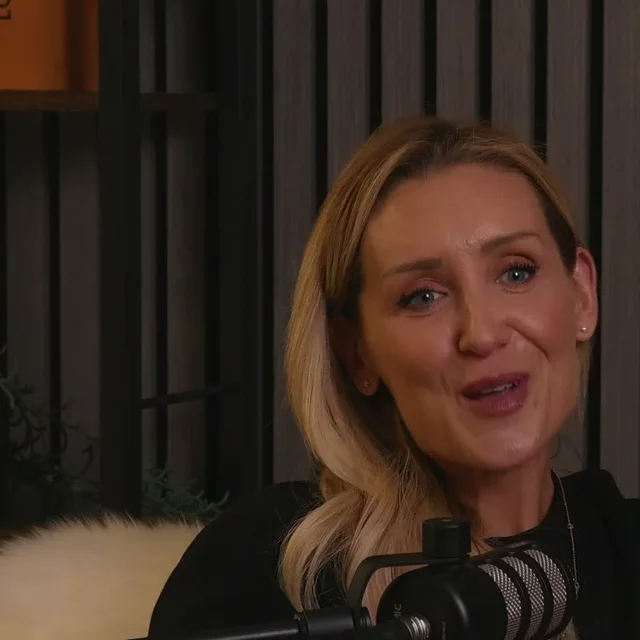
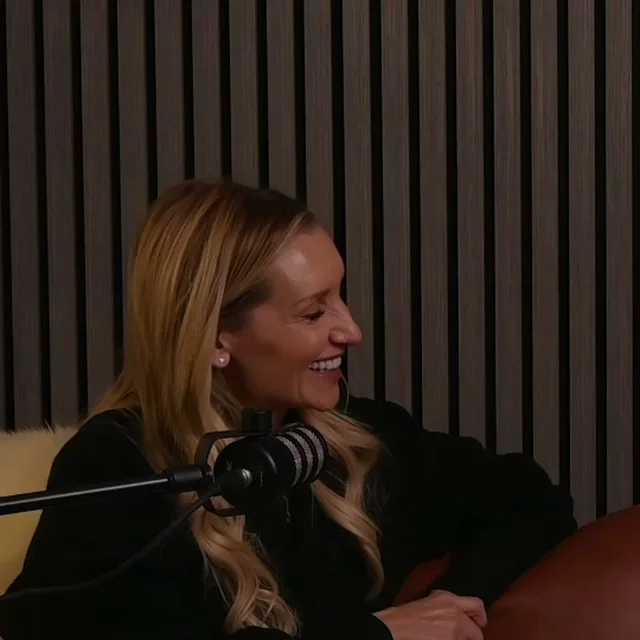
Faces polish per Luca: smaller tiles, flattering laughing shots for Cath/Lindsey, better Lucy-Jo, Chris facing camera, section moved above pricing, On air band tile removed

diff --git a/index.html b/index.html
@@ -205,8 +205,8 @@
 
   /* ---- gallery band ---- */
   .band{padding:0;border-block:1px solid var(--line-2)}
-  .band-in{display:grid;grid-template-columns:1.4fr 1fr;gap:4px;height:min(46vw,420px)}
-  @media(max-width:720px){.band-in{grid-template-columns:1fr;height:auto}.band-in .g{height:50vw}}
+  .band-in{display:grid;grid-template-columns:1fr;gap:4px;height:min(40vw,380px)}
+  @media(max-width:720px){.band-in{height:auto}.band-in .g{height:50vw}}
   .band .g{background-size:cover;background-position:center;position:relative;overflow:hidden;filter:saturate(.9)}
   .band .g:hover{filter:saturate(1.08)}
   .band .g::after{content:"";position:absolute;inset:0;background:linear-gradient(180deg,transparent 55%,rgba(7,17,8,.75))}
@@ -307,7 +307,7 @@
 
   /* anchor offset for sticky header */
   section[id],div[id]{scroll-margin-top:84px}
-@media (max-width:560px){.phones{gap:.6rem}.phone{width:clamp(86px,26vw,150px)}.phone:nth-child(2){width:clamp(95px,29vw,165px)}.phone .cap{font-size:.68rem}}.skip{position:absolute;left:-9999px;top:0;background:#e8b04b;color:#141810;padding:.6rem 1.1rem;z-index:100;font-weight:600}.skip:focus{left:0}main p a,main li a,.foot-col a{text-decoration:underline;text-underline-offset:3px;text-decoration-thickness:1px}h3.name{margin:0;font-size:inherit;font-weight:inherit;font-family:inherit}.paths .wide{grid-column:1/-1}.paths .wide .ph{height:300px}.faces{display:grid;grid-template-columns:repeat(auto-fit,minmax(150px,1fr));gap:1rem;margin-top:2.4rem}.face{margin:0}.face img{width:100%;height:auto;border-radius:14px;border:1px solid var(--line);display:block;filter:saturate(.95)}.face figcaption{font-family:ui-monospace,Menlo,monospace;font-size:.66rem;letter-spacing:.14em;text-transform:uppercase;color:var(--ink-dim);margin-top:.55rem;text-align:center}
+@media (max-width:560px){.phones{gap:.6rem}.phone{width:clamp(86px,26vw,150px)}.phone:nth-child(2){width:clamp(95px,29vw,165px)}.phone .cap{font-size:.68rem}}.skip{position:absolute;left:-9999px;top:0;background:#e8b04b;color:#141810;padding:.6rem 1.1rem;z-index:100;font-weight:600}.skip:focus{left:0}main p a,main li a,.foot-col a{text-decoration:underline;text-underline-offset:3px;text-decoration-thickness:1px}h3.name{margin:0;font-size:inherit;font-weight:inherit;font-family:inherit}.paths .wide{grid-column:1/-1}.paths .wide .ph{height:300px}.faces{display:grid;grid-template-columns:repeat(auto-fit,minmax(105px,1fr));gap:.8rem;margin-top:2.2rem}.face{margin:0}.face img{width:100%;height:auto;border-radius:14px;border:1px solid var(--line);display:block;filter:saturate(.95)}.face figcaption{font-family:ui-monospace,Menlo,monospace;font-size:.66rem;letter-spacing:.14em;text-transform:uppercase;color:var(--ink-dim);margin-top:.55rem;text-align:center}
 .face figcaption small{display:block;font-size:.6rem;letter-spacing:.08em;text-transform:none;color:var(--ink-faint);margin-top:.25rem}
 .rate a.r{display:block;text-decoration:none;color:inherit;border-color:rgba(232,169,75,.45);background:linear-gradient(160deg,rgba(232,169,75,.14),rgba(232,169,75,.04))}
 .rate a.r:hover{border-color:rgba(232,169,75,.8)}
@@ -516,9 +516,29 @@
 <div class="band">
   <div class="band-in">
     <div class="g" style="background-image:var(--img-lounge)"><span>Built for Heart &amp; Home</span></div>
-    <div class="g" style="background-image:var(--img-bts)"><span>On air</span></div>
   </div>
 </div>
+
+<!-- ================= FEATURED ================= -->
+<section id="featured">
+  <div class="wrap">
+    <div class="sec-head reveal">
+      <span class="eyebrow"><span class="tk">//</span> Featured in the studio</span>
+      <h2 class="big serif">Faces you&#39;ll recognise.</h2>
+      <p class="lede">A few of the guests who&#39;ve pulled up a chair in the room.</p>
+    </div>
+    <div class="faces">
+      <figure class="face reveal"><img src="images/faces/catherine-tyldesley.webp" alt="Catherine Tyldesley recording Repeat or Delete at Nova Studios" loading="lazy" width="640" height="640"><figcaption>Catherine Tyldesley<small>Coronation Street&rsquo;s Eva Price</small></figcaption></figure>
+      <figure class="face reveal"><img src="images/faces/hayley-tamaddon.webp" alt="Hayley Tamaddon recording Repeat or Delete at Nova Studios" loading="lazy" width="640" height="640"><figcaption>Hayley Tamaddon<small>Coronation Street&rsquo;s Andrea Beckett</small></figcaption></figure>
+      <figure class="face reveal"><img src="images/faces/chris-geere.webp" alt="Chris Geere recording Repeat or Delete at Nova Studios" loading="lazy" width="640" height="640"><figcaption>Chris Geere<small>You&rsquo;re the Worst &amp; This Is Us</small></figcaption></figure>
+      <figure class="face reveal"><img src="images/faces/lindsey-kane.webp" alt="Lindsey Kane recording Repeat or Delete at Nova Studios" loading="lazy" width="640" height="640"><figcaption>Lindsey Kane<small>Founder &amp; CEO of JOLT</small></figcaption></figure>
+      <figure class="face reveal"><img src="images/faces/sally-dynevor.webp" alt="Sally Dynevor at Nova Studios" loading="lazy" width="640" height="640"><figcaption>Sally Dynevor<small>Coronation Street&rsquo;s Sally Webster since 1986</small></figcaption></figure>
+      <figure class="face reveal"><img src="images/faces/lucy-jo-hudson.webp" alt="Lucy-Jo Hudson at Nova Studios" loading="lazy" width="640" height="640"><figcaption>Lucy-Jo Hudson<small>Coronation Street&rsquo;s Katy Harris</small></figcaption></figure>
+      <figure class="face reveal"><img src="images/faces/anya-lawrence.webp" alt="Anya Lawrence at Nova Studios" loading="lazy" width="640" height="640"><figcaption>Anya Lawrence<small>Hollyoaks&rsquo; Vicky Grant since 2022</small></figcaption></figure>
+      <figure class="face reveal"><img src="images/faces/angela-lonsdale.webp" alt="Angela Lonsdale at Nova Studios" loading="lazy" width="640" height="640"><figcaption>Angela Lonsdale<small>Coronation Street&rsquo;s Emma Watts</small></figcaption></figure>
+    </div>
+  </div>
+</section>
 
 <!-- ================= PRICING ================= -->
 <section id="pricing">
@@ -619,27 +639,6 @@
       </div>
     </div>
     <p class="price-note reveal" style="margin-top:1.2rem">Rated <b>5.0 on Google</b>. <a href="https://www.google.com/maps/place/Nova+Studios/@53.3988657,-2.3598644,17z/data=!4m6!3m5!1s0x487babcb771fefed:0x2cc1fc8edcbab5a0!8m2!3d53.3988657!4d-2.3598644!16s%2Fg%2F11zx08bbz8" target="_blank" rel="noopener">Read the reviews</a>.</p>
-  </div>
-</section>
-
-<!-- ================= FEATURED ================= -->
-<section id="featured">
-  <div class="wrap">
-    <div class="sec-head reveal">
-      <span class="eyebrow"><span class="tk">//</span> Featured in the studio</span>
-      <h2 class="big serif">Faces you&#39;ll recognise.</h2>
-      <p class="lede">A few of the guests who&#39;ve pulled up a chair in the room.</p>
-    </div>
-    <div class="faces">
-      <figure class="face reveal"><img src="images/faces/catherine-tyldesley.webp" alt="Catherine Tyldesley recording Repeat or Delete at Nova Studios" loading="lazy" width="640" height="640"><figcaption>Catherine Tyldesley<small>Coronation Street&rsquo;s Eva Price</small></figcaption></figure>
-      <figure class="face reveal"><img src="images/faces/hayley-tamaddon.webp" alt="Hayley Tamaddon recording Repeat or Delete at Nova Studios" loading="lazy" width="640" height="640"><figcaption>Hayley Tamaddon<small>Coronation Street&rsquo;s Andrea Beckett</small></figcaption></figure>
-      <figure class="face reveal"><img src="images/faces/chris-geere.webp" alt="Chris Geere recording Repeat or Delete at Nova Studios" loading="lazy" width="640" height="640"><figcaption>Chris Geere<small>You&rsquo;re the Worst &amp; This Is Us</small></figcaption></figure>
-      <figure class="face reveal"><img src="images/faces/lindsey-kane.webp" alt="Lindsey Kane recording Repeat or Delete at Nova Studios" loading="lazy" width="640" height="640"><figcaption>Lindsey Kane<small>Founder &amp; CEO of JOLT</small></figcaption></figure>
-      <figure class="face reveal"><img src="images/faces/sally-dynevor.webp" alt="Sally Dynevor at Nova Studios" loading="lazy" width="640" height="640"><figcaption>Sally Dynevor<small>Coronation Street&rsquo;s Sally Webster since 1986</small></figcaption></figure>
-      <figure class="face reveal"><img src="images/faces/lucy-jo-hudson.webp" alt="Lucy-Jo Hudson at Nova Studios" loading="lazy" width="640" height="640"><figcaption>Lucy-Jo Hudson<small>Coronation Street&rsquo;s Katy Harris</small></figcaption></figure>
-      <figure class="face reveal"><img src="images/faces/anya-lawrence.webp" alt="Anya Lawrence at Nova Studios" loading="lazy" width="640" height="640"><figcaption>Anya Lawrence<small>Hollyoaks&rsquo; Vicky Grant since 2022</small></figcaption></figure>
-      <figure class="face reveal"><img src="images/faces/angela-lonsdale.webp" alt="Angela Lonsdale at Nova Studios" loading="lazy" width="640" height="640"><figcaption>Angela Lonsdale<small>Coronation Street&rsquo;s Emma Watts</small></figcaption></figure>
-    </div>
   </div>
 </section>
 
